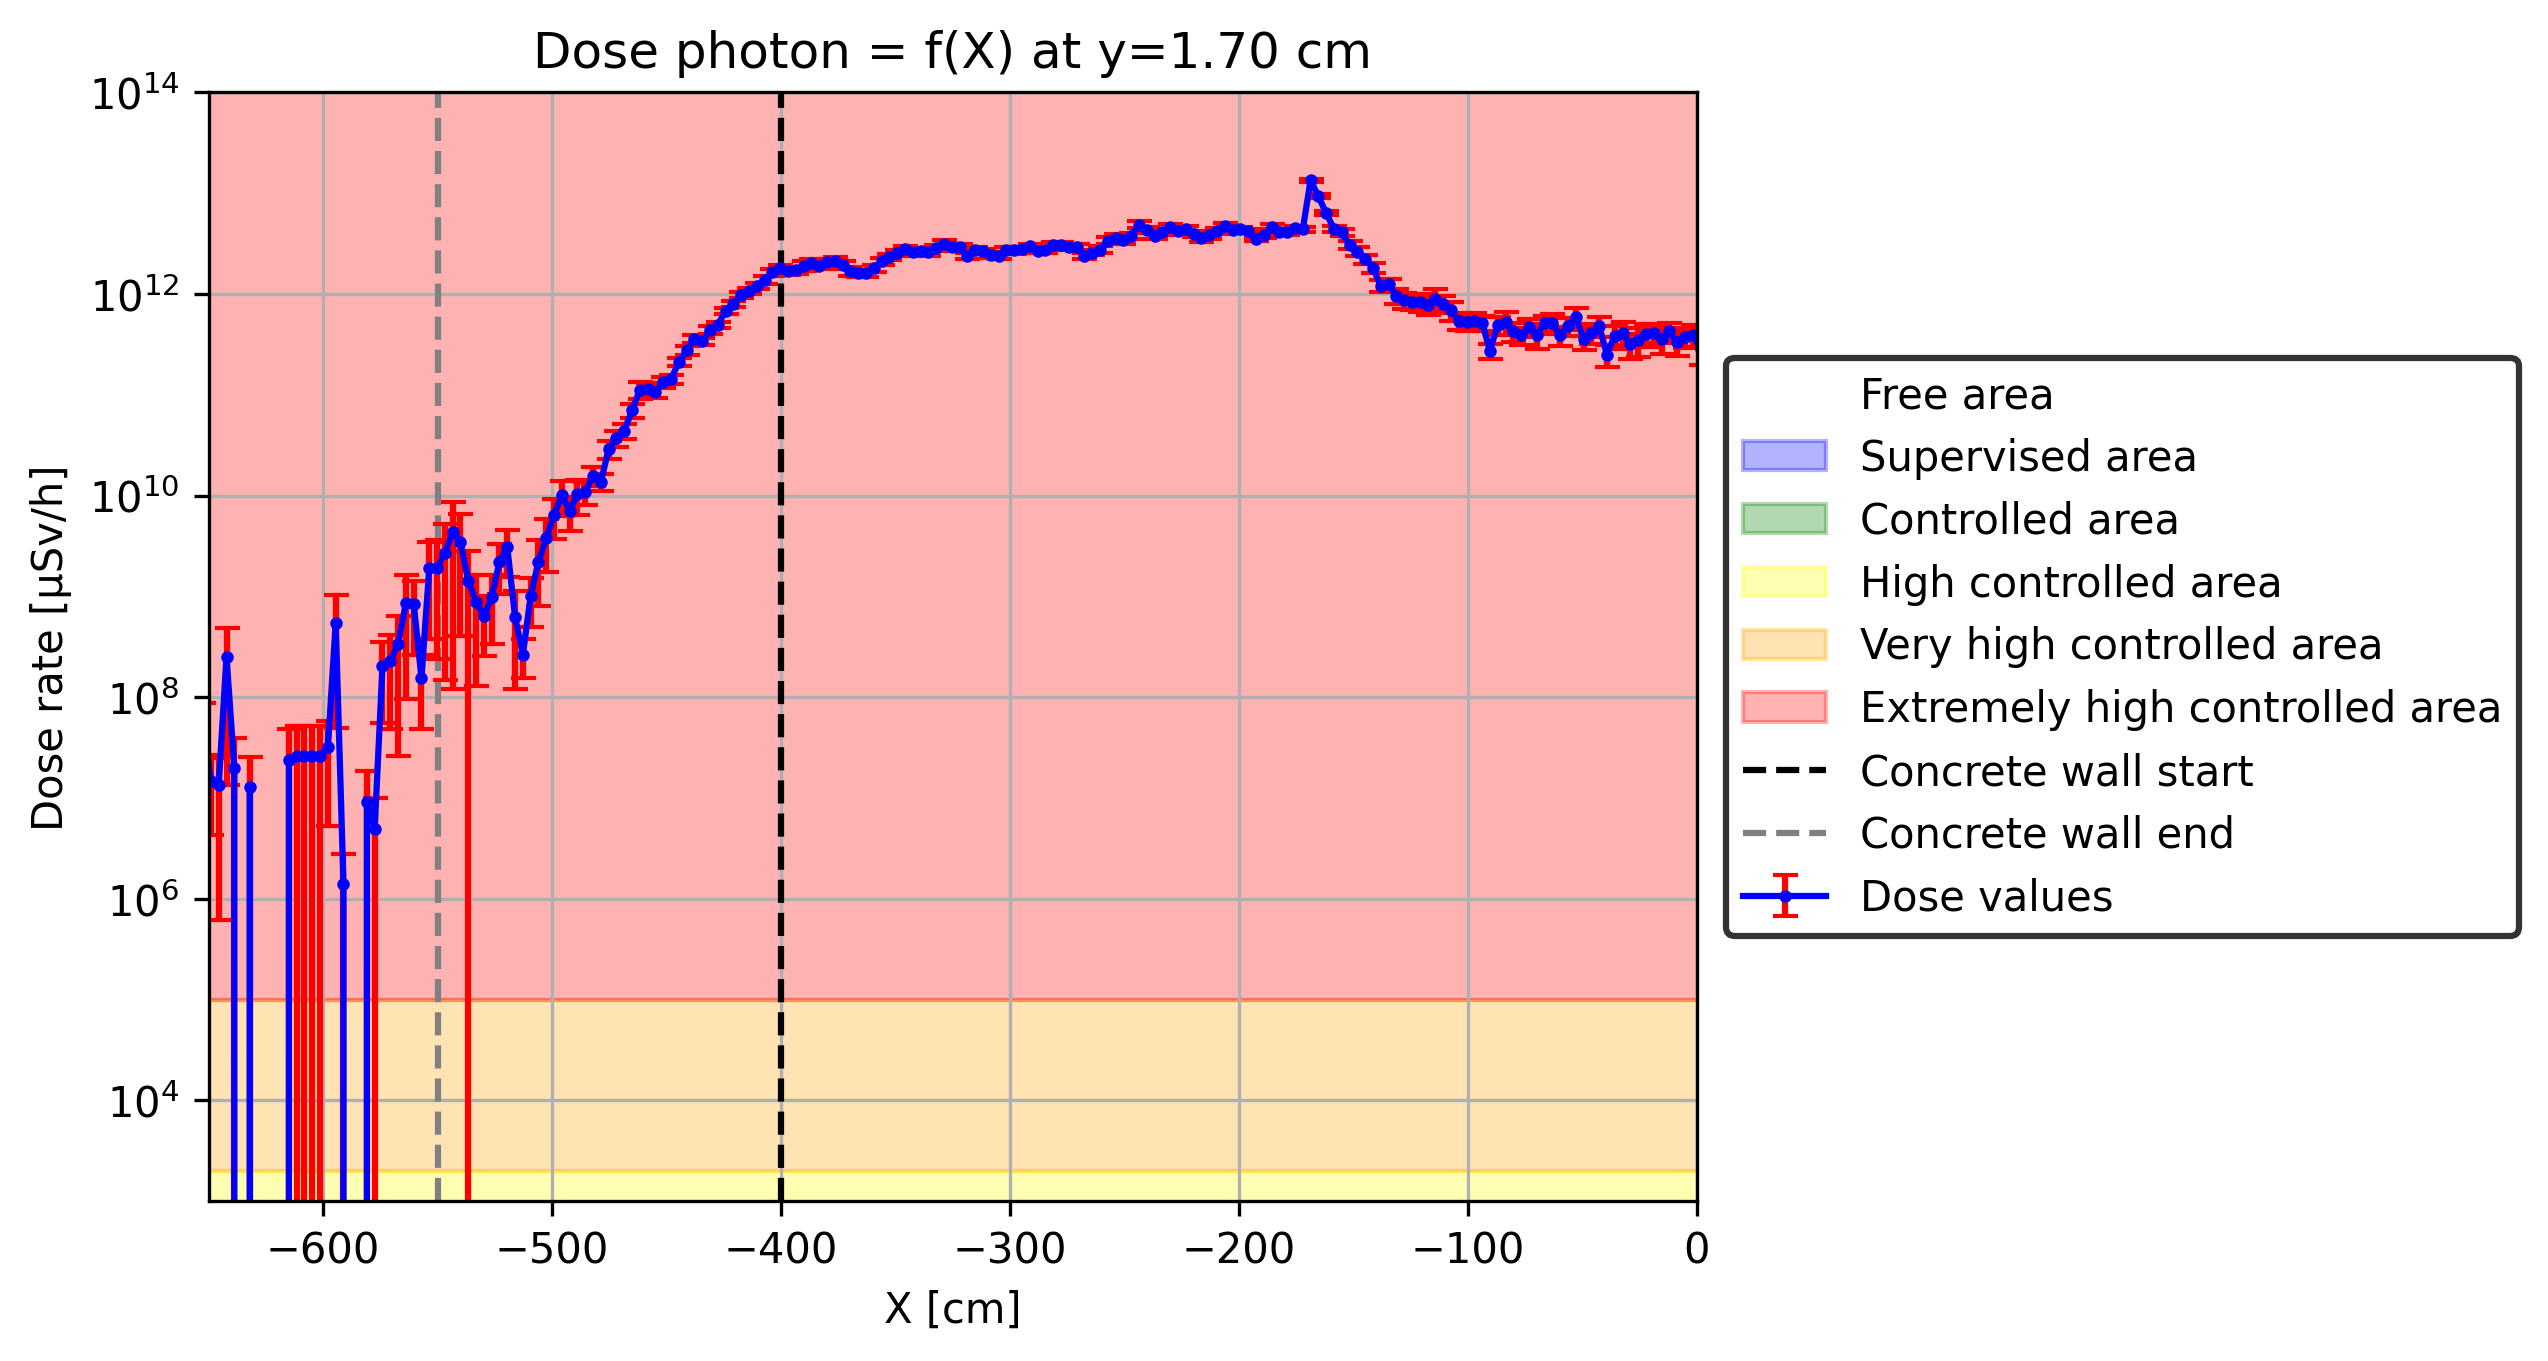
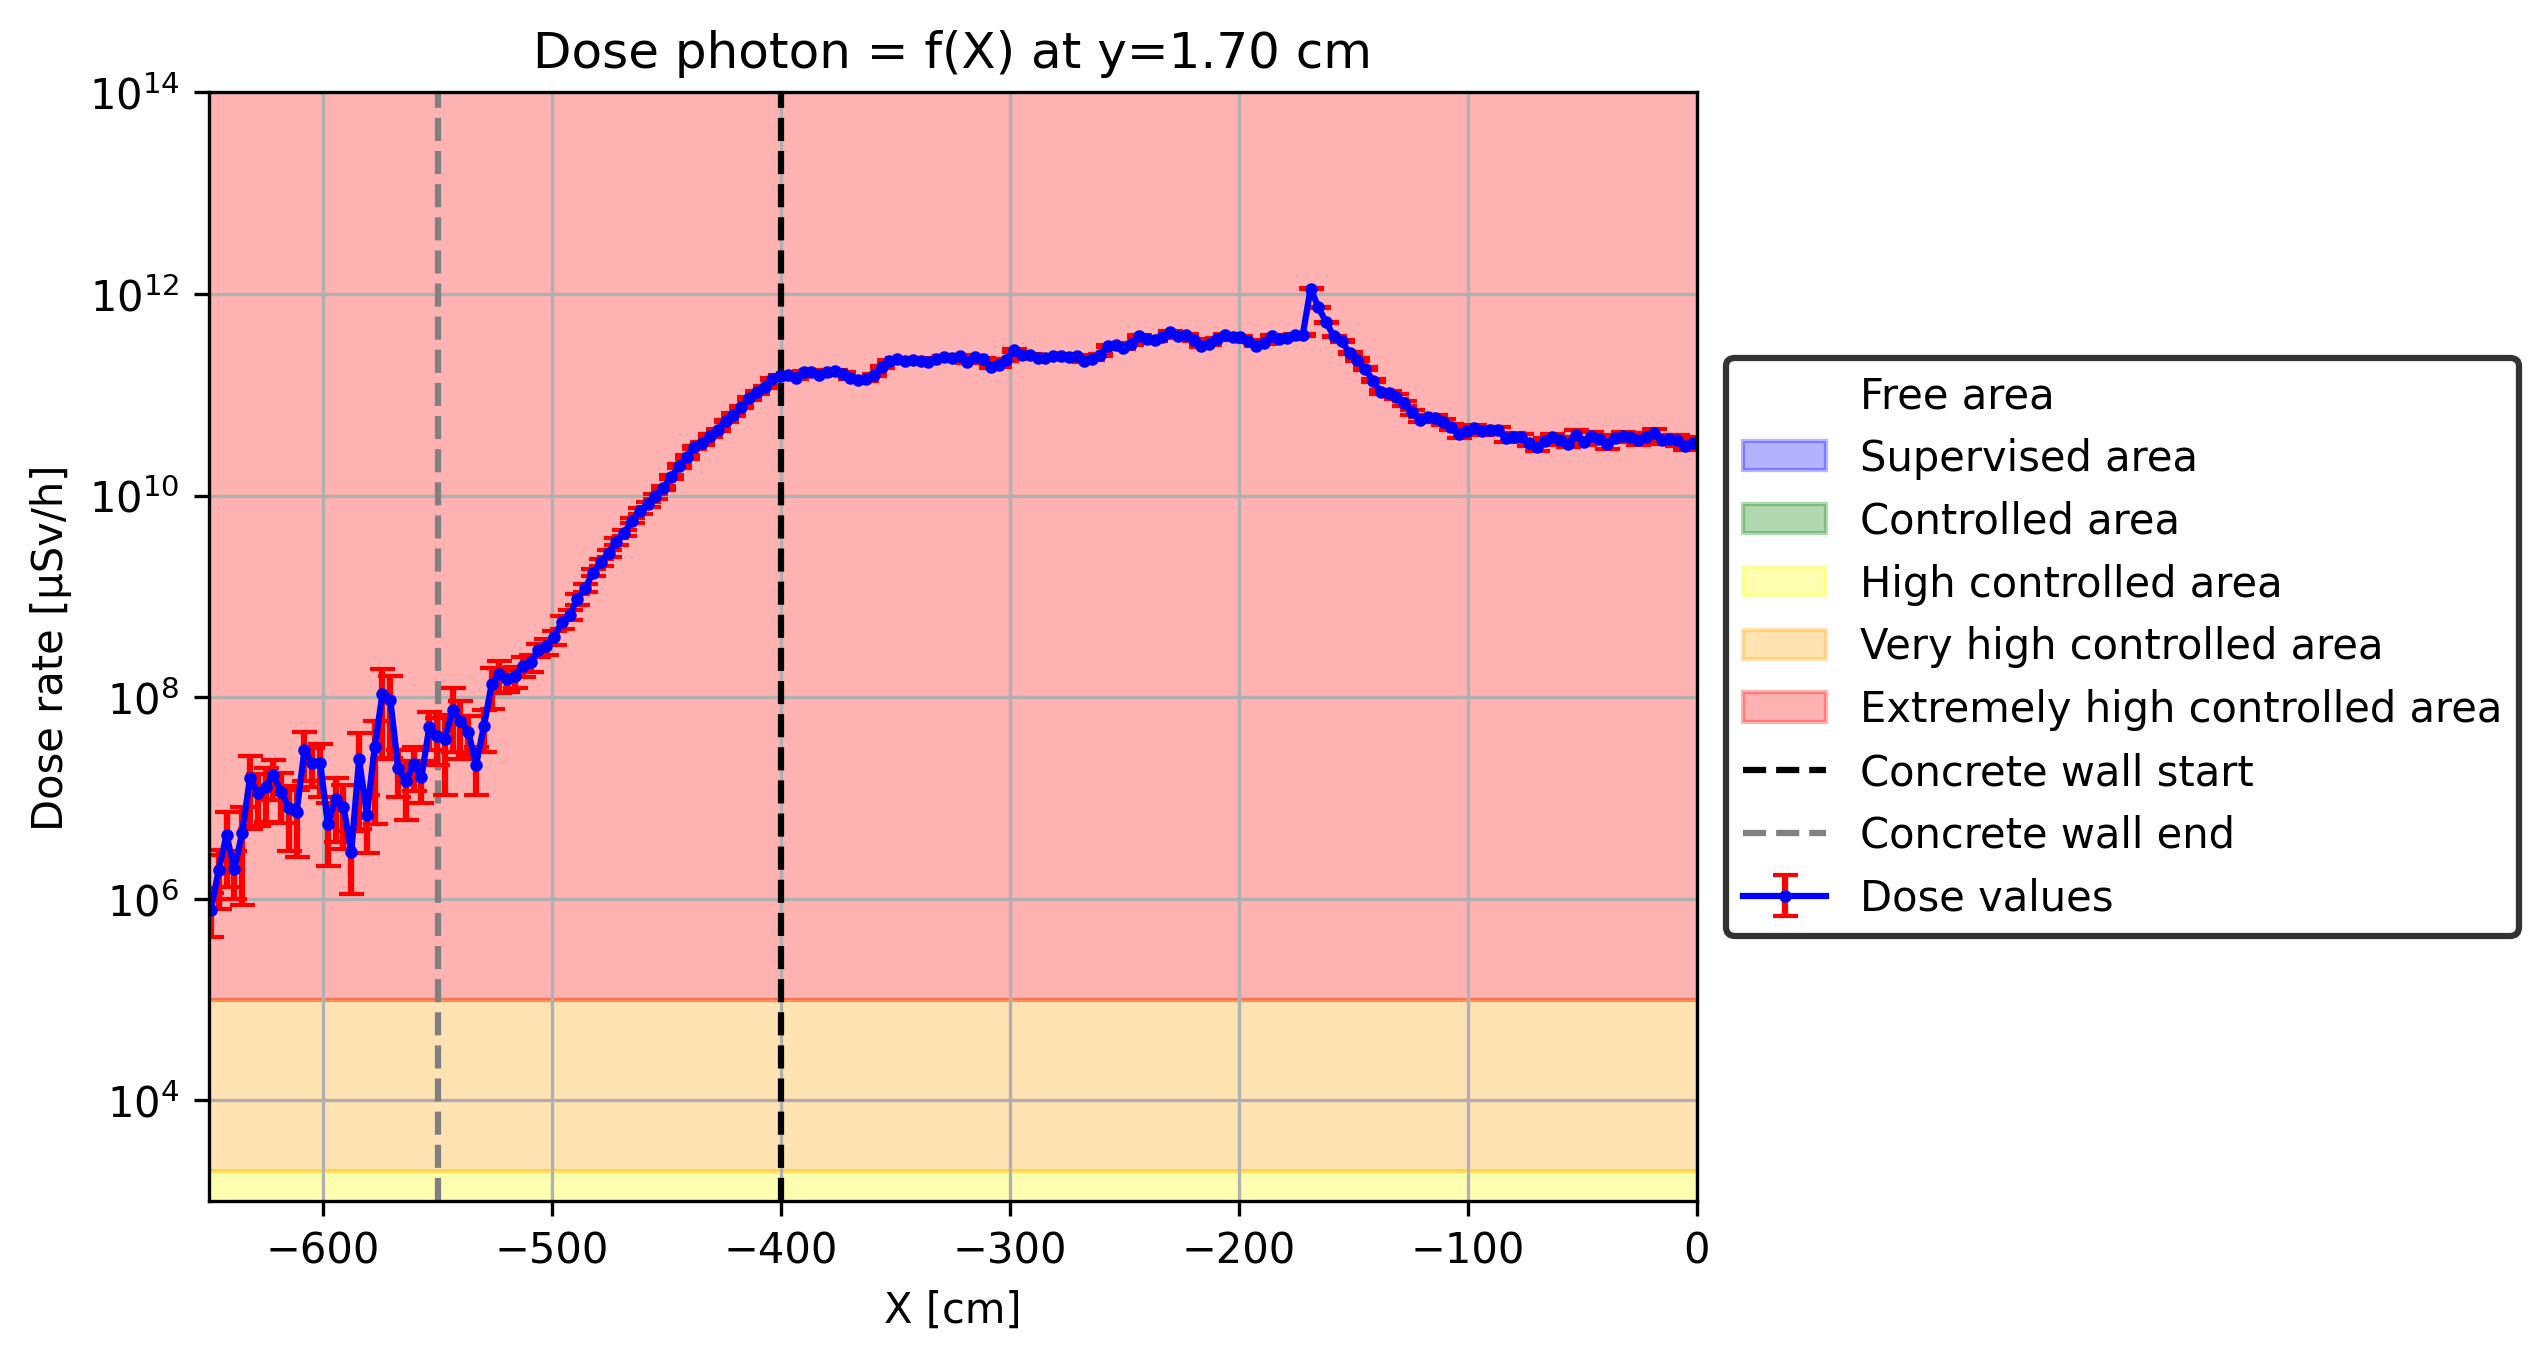
feat:add_resutls_150cm

Changed region(s): [[0.062, 0.1234, 0.6821, 0.8949], [0.5581, 0.3086, 0.6821, 0.3395]]

diff --git a/src/studies/reactor_study/class_model/secondary_source/wwg_using/02_150cm/post.py b/src/studies/reactor_study/class_model/secondary_source/wwg_using/02_150cm/post.py
@@ -80,7 +80,7 @@ mesh_tally_photons.plot_dose(axis_two_index=250,
                              radiological_area=True,
                              geometrical_limit=[(-400, 'Concrete wall start'), (-550, 'Concrete wall end')],
                              fig_name="dose_plot_photons.png")
-mesh_tally_photons.plot_dose_map(model=MODEL, saving_figure=True, plot_error=True, 
+mesh_tally_photons.plot_dose_map(model=MODEL, saving_figure=True, plot_error=True, color_by="cell", 
                                  particles_per_second=neutron_emission_rate, radiological_area=False)   
 
 mesh_tally_neutrons = mesh_tally_data(statepoint, "flux_mesh_neutrons_xy", "XY", "neutron")
@@ -92,5 +92,5 @@ mesh_tally_neutrons.plot_dose(axis_two_index=250,
                              radiological_area=True,
                              geometrical_limit=[(-400, 'Concrete wall start'), (-550, 'Concrete wall end')],
                              fig_name="dose_plot_neutrons.png")
-mesh_tally_neutrons.plot_dose_map(model=MODEL, saving_figure=True, plot_error=True, 
+mesh_tally_neutrons.plot_dose_map(model=MODEL, saving_figure=True, plot_error=True, color_by="cell",
                                  particles_per_second=neutron_emission_rate, radiological_area=False)   

diff --git a/src/studies/reactor_study/class_model/secondary_source/wwg_using/02_150cm/pilot.py b/src/studies/reactor_study/class_model/secondary_source/wwg_using/02_150cm/pilot.py
@@ -83,13 +83,12 @@ MODEL.export_to_xml()
 tallys = openmc.Tallies()
 
 mesh_tally_xy_neutrons = mesh_tally_dose_plane(name_mesh_tally = "flux_mesh_neutrons_xy", particule_type='neutron', plane="xy",
-                                      bin_number=500, lower_left=(-850.0, -850.0), upper_right=(850.0, 850.0),
+                                      bin_number=250, lower_left=(-850.0, -850.0), upper_right=(850.0, 850.0),
                                       thickness= 20.0, coord_value=0.0)
 tallys.append(mesh_tally_xy_neutrons)
 
-
 mesh_tally_xy_photons = mesh_tally_dose_plane(name_mesh_tally = "flux_mesh_photons_xy", particule_type='photon', plane="xy",
-                                      bin_number=500, lower_left=(-850.0, -850.0), upper_right=(850.0, 850.0),
+                                      bin_number=250, lower_left=(-850.0, -850.0), upper_right=(850.0, 850.0),
                                       thickness= 20.0, coord_value=0.0)
 tallys.append(mesh_tally_xy_photons)
 
